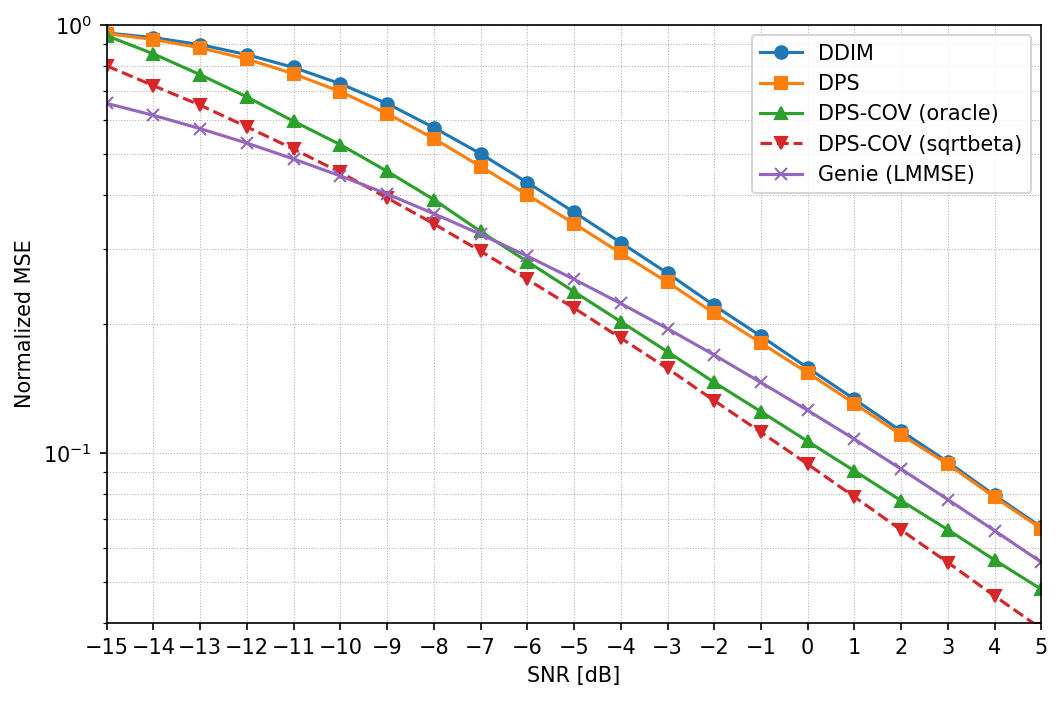
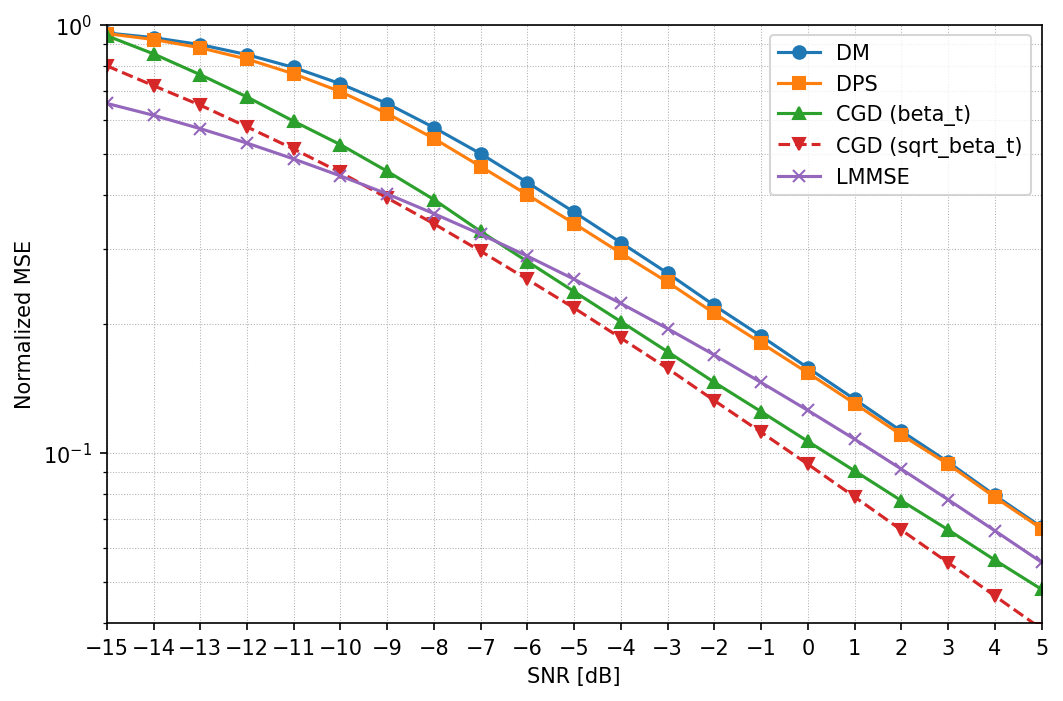
results update

diff --git a/plot_case2.py b/plot_case2.py
@@ -138,6 +138,53 @@ dps_cov_est_best = np.array([
     0.04566792
 ])
 
+dps_cov_oracle_sqrtbeta = np.array([
+    0.179403812,
+    0.156103522,
+    0.139285162,
+    0.128767744,
+    0.120300412,
+    0.114184693,
+    0.109616555,
+    0.105123289,
+    0.101252347,
+    0.097332999,
+    0.093530826,
+    0.08949618,
+    0.085361965,
+    0.079972036,
+    0.074803598,
+    0.069313399,
+    0.063627906,
+    0.057896528,
+    0.05318734,
+    0.047362495,
+    0.042795561
+])
+cbd_oracle = np.array([
+    0.219811067,
+    0.19705236,
+    0.179879472,
+    0.165927768,
+    0.153186992,
+    0.143654242,
+    0.135986388,
+    0.129242808,
+    0.123257726,
+    0.118758313,
+    0.114668503,
+    0.11050991,
+    0.105952352,
+    0.099880569,
+    0.094165929,
+    0.08781185,
+    0.080954589,
+    0.073548339,
+    0.06811215,
+    0.060045335,
+    0.054383531
+])
+
 # =========================
 # Figure 1: Main Comparison Plot (Best Configurations)
 # =========================
@@ -148,27 +195,43 @@ best_cov_lambda = 5e-4  # Best DPS-COV cov_lambda
 plt.figure(figsize=(7.6, 5.0))
 
 # Plot baseline: DDIM (unconditional diffusion model)
-plt.semilogy(snr, nmse_ddim, marker='o', label='DDIM')
+plt.semilogy(snr, nmse_ddim, marker='o', label='DM')
 
 # Plot DPS with best lambda
+#(lambda0.3)
 plt.semilogy(
     snr, dps[best_lambda],
     marker='s',
-    label=rf'DPS ($\lambda={best_lambda}$)'
+    label=rf'DPS'
 )
 
 # Plot DPS-COV with oracle covariance (perfect H H^H)
+#(lambda0.3, cov_lambda0.0005)
 plt.semilogy(
     snr, dps_cov_oracle[best_cov_lambda],
     marker='^',
-    label=rf'DPS-COV (oracle, $\lambda={best_lambda}$, $\lambda_{{cov}}={best_cov_lambda:g}$)'
+    label=rf'DPS-COV ($\lambda=0.3$, $\lambda_{{cov}}=0.0005$)'
 )
 
 # Plot DPS-COV with estimated covariance (time-averaged)
+# plt.semilogy(
+#     snr, dps_cov_est_best,
+#     marker='v', linestyle='--',
+#     label=rf'DPS-COV (est, $\lambda={best_lambda}$, $\lambda_{{cov}}={best_cov_lambda:g}$)'
+# )
+
+# Plot CBD with oracle covariance (perfect H H^H)
 plt.semilogy(
-    snr, dps_cov_est_best,
+    snr, cbd_oracle,
+    marker='x',
+    label=rf'DPS-COV ($\lambda=0$, $\lambda_{{cov}}=0.0005$)'
+)
+
+# Plot CBD with estimated covariance (time-averaged)
+plt.semilogy(
+    snr, dps_cov_oracle_sqrtbeta,
     marker='v', linestyle='--',
-    label=rf'DPS-COV (est, $\lambda={best_lambda}$, $\lambda_{{cov}}={best_cov_lambda:g}$)'
+    label=rf'DPS-COV (sqrt_beta_t)'
 )
 
 # Formatting

diff --git a/plot.py b/plot.py
@@ -89,12 +89,12 @@ nmse_dps_cov_sqrtbeta = np.array([
 
 plt.figure(figsize=(7.2, 4.8))
 
-plt.semilogy(snr, nmse_ddim,         marker='o', label='DDIM')
+plt.semilogy(snr, nmse_ddim,         marker='o', label='DM')
 plt.semilogy(snr, nmse_dps,          marker='s', label='DPS')
-plt.semilogy(snr, nmse_dps_cov,      marker='^', label='DPS-COV (oracle)')
+plt.semilogy(snr, nmse_dps_cov,      marker='^', label='CGD (beta_t)')
 # plt.semilogy(snr, nmse_dps_cov_est,  marker='v', linestyle='--', label='DPS-COV (est)')
-plt.semilogy(snr, nmse_dps_cov_sqrtbeta,  marker='v', linestyle='--', label='DPS-COV (sqrtbeta)')
-plt.semilogy(snr, lmmse_genie,       marker='x', label='Genie (LMMSE)')
+plt.semilogy(snr, nmse_dps_cov_sqrtbeta,  marker='v', linestyle='--', label='CGD (sqrt_beta_t)')
+plt.semilogy(snr, lmmse_genie,       marker='x', label='LMMSE')
 
 
 plt.xlim([-15, 5])

diff --git a/load_and_eval_dm_dps.py b/load_and_eval_dm_dps.py
@@ -148,6 +148,9 @@ def parse_args() -> argparse.Namespace:
     except ValueError:
         raise ValueError(f'Invalid dps_lambda format: {args.dps_lambda}. Use comma-separated floats like "0.1,0.3,0.5"')
     
+    # Debug: print parsed dps_lambda values
+    print(f"[DEBUG] Parsed --dps_lambda: '{args.dps_lambda}' -> {args.dps_lambdas}")
+    
     return args
 
 

diff --git a/DPS_COV_NEW_VERSION_GUIDE.md b/DPS_COV_NEW_VERSION_GUIDE.md
@@ -99,7 +99,17 @@ python load_and_eval_dm_dps.py \
     --ch_type 3gpp \
     --n_path 3
 ```
-
+For quadriga channel estimation, the recommended default parameters are:
+```bash
+python load_and_eval_dm_dps.py \
+    --ch_type quadriga_LOS
+    --method dps_cov_oracle \
+    --cov_lambda 0.00005 \
+    --cov_scale_mode sqrt_beta_t \
+    --cov_grad_norm none \
+    --cov_step_clip 2.0 \
+    --dps_lambda 0.3 \
+```
 **Parameter Explanation:**
 - `--cov_lambda 0.01`: Moderate covariance guidance strength
 - `--cov_scale_mode sqrt_beta_t`: Balanced scaling that decays slower than `beta_t`
